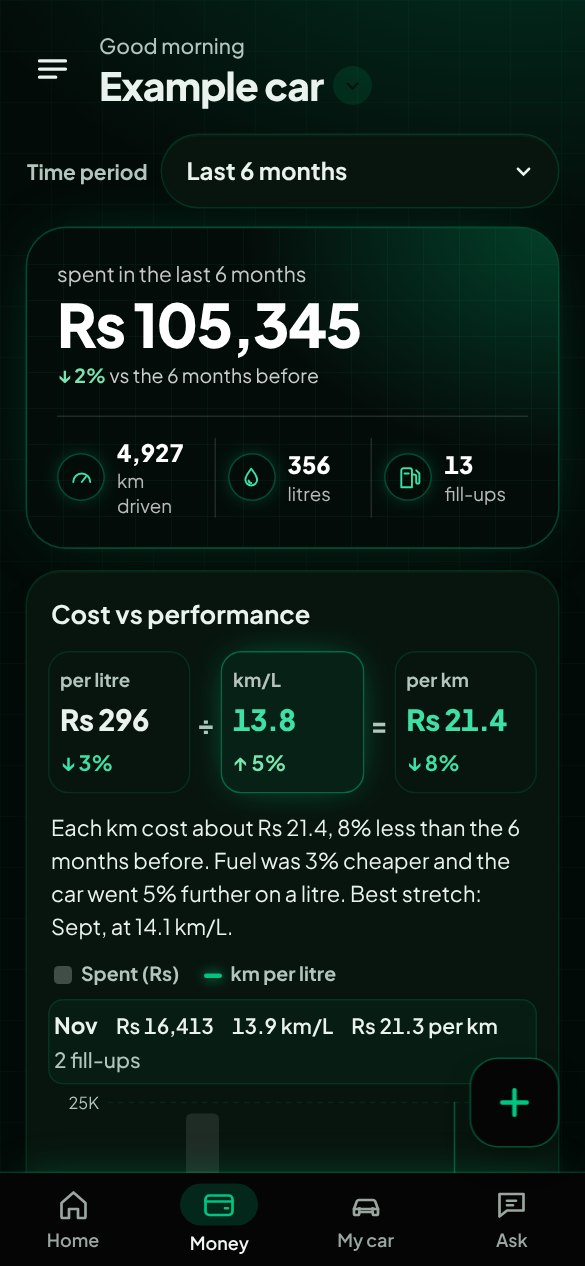
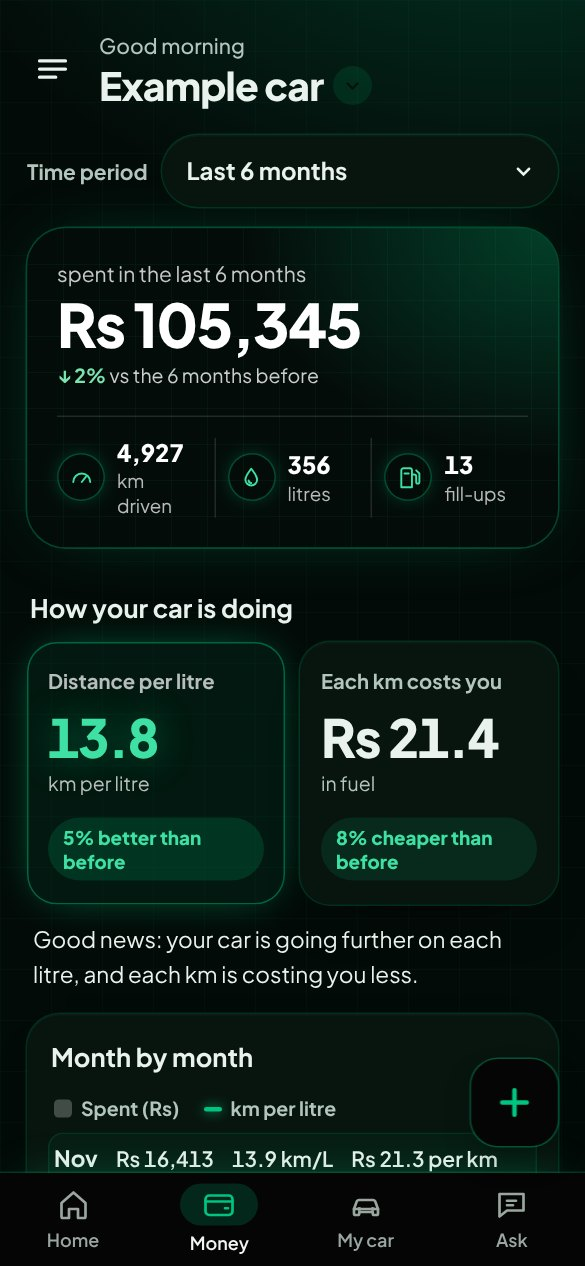
Website in the Glow look; simpler Money page (two numbers, one sentence, one chart)
Claude-Session: https://claude.ai/code/session_01FM4jDjDSFjWPSRL6SLVU9D

Changed region(s): [[0.0308, 0.4621, 0.8923, 0.9242], [0.7692, 0.7393, 0.8615, 0.7701]]

diff --git a/website/index.html b/website/index.html
@@ -3,13 +3,13 @@
 <head>
 <meta charset="utf-8">
 <meta name="viewport" content="width=device-width, initial-scale=1, viewport-fit=cover">
-<meta name="color-scheme" content="light only">
+<meta name="color-scheme" content="dark only">
 <title>MotorPal: your vehicle, sorted</title>
 <meta name="description" content="MotorPal reminds you of every renewal and service, and helps you understand what your vehicle is trying to tell you: warning lights, mechanic talk, and who fixes what. Free, private, made for Sri Lankan drivers.">
 <meta property="og:title" content="MotorPal: your vehicle, sorted">
 <meta property="og:description" content="It reminds you. It also tells you what your car is trying to say. A free, private app made for Sri Lankan drivers.">
 <meta property="og:image" content="img/home.jpg">
-<meta name="theme-color" content="#FFFFFF">
+<meta name="theme-color" content="#030B08">
 <link rel="icon" href="img/motorpal-icon.svg" type="image/svg+xml">
 <link rel="stylesheet" href="https://fonts.googleapis.com/css2?family=Plus+Jakarta+Sans:wght@400;500;600;700;800&display=swap">
 <style>
@@ -286,6 +286,68 @@ body { background: var(--bg); }
 .wf-note { margin-top: 6px; font-size: 11px; color: var(--yellow); font-weight: 700; }
 .final-card { box-shadow: 0 24px 48px -24px rgba(17, 26, 22, .35); }
 @media (max-width: 900px) { .wallet-float { right: 0; top: 6px; width: 200px; padding: 14px 16px; } .wf-big { font-size: 26px; } }
+
+/* ---------- Glow finish (November 2026): same look as the app's Glow ----------
+   Near-black green page with a faint mint grid, dark panels outlined in mint at low strength,
+   icons in outlined glowing circles, mint glows instead of fills. Text #EAF2EE on #08150F is 16:1, muted #A9C4B8 10:1. */
+:root {
+  --bg: #030B08; --soft: #08150F; --ink: #EAF2EE; --mut: #A9C4B8; --line: rgba(0, 196, 127, .16);
+  --green: #00C47F; --green-ink: #3EE0A4; --green-tint: rgba(0, 196, 127, .10); --deep: #040C09;
+  --yellow: #00C47F; --yellow-tint: rgba(0, 196, 127, .12); --on-yellow: #04120C;
+  --red: #FF9B90; --red-tint: rgba(255, 155, 144, .10); --amber: #FFC070; --amber-tint: rgba(255, 192, 112, .10);
+  --edge: rgba(0, 196, 127, .22);
+  --lift: 0 0 0 1px var(--edge), inset 0 1px 0 rgba(255, 255, 255, .03), 0 24px 48px -28px rgba(0, 0, 0, .9);
+  --glow: 0 0 22px -8px rgba(0, 196, 127, .8);
+  color-scheme: dark;
+}
+body {
+  background:
+    radial-gradient(900px 520px at 85% -120px, rgba(0, 196, 127, .20), transparent 70%) no-repeat,
+    linear-gradient(rgba(0, 196, 127, .035) 1px, transparent 1px) 0 0 / 40px 40px,
+    linear-gradient(90deg, rgba(0, 196, 127, .035) 1px, transparent 1px) 0 0 / 40px 40px,
+    var(--bg);
+  color: var(--ink);
+}
+body::before { background: var(--bg); }
+.nav { background: rgba(3, 11, 8, .82); border-bottom: 1px solid var(--edge); }
+.band.soft { background: rgba(0, 196, 127, .025); border-block: 1px solid rgba(0, 196, 127, .10); }
+.dark { background: transparent; }
+.dark .lead, .dark-cols .steps-list span, .legend { color: var(--mut); }
+.step, .pain, .promise, .person, .how, .say, .fx, .lis, .value, .feature .shot, .badge-float, .dl {
+  background: #08150F !important; box-shadow: var(--lift) !important; border: 0 !important; color: var(--ink); }
+.step.last { background: radial-gradient(260px 180px at 100% 0%, rgba(0, 196, 127, .25), transparent 70%), #040C09 !important; box-shadow: 0 0 0 1px rgba(0, 196, 127, .45), var(--glow) !important; }
+.step.last p { color: var(--mut); }
+.feature .shot { background: radial-gradient(320px 240px at 50% 0%, rgba(0, 196, 127, .14), transparent 70%), #08150F !important; }
+/* icons in outlined, softly glowing circles */
+.pain .ic, .promise .ic, .person .ic, .fx .ic, .lis .ic, .value .ic, .points .pi, .badge-float .dot, .step .num {
+  border-radius: 50% !important; background: rgba(0, 196, 127, .06) !important; color: var(--green-ink) !important;
+  box-shadow: inset 0 0 0 1px rgba(0, 196, 127, .35), 0 0 18px -8px rgba(0, 196, 127, .8); }
+.step .num { color: var(--green-ink); }
+.badge-float.one .dot { color: var(--red) !important; box-shadow: inset 0 0 0 1px rgba(255, 155, 144, .4), 0 0 18px -8px rgba(255, 155, 144, .8); }
+.pain .fix { border-top-color: var(--line); }
+.say .a, .covered { background: rgba(0, 196, 127, .07); box-shadow: inset 0 0 0 1px rgba(0, 196, 127, .25); color: var(--green-ink); }
+.chain-note { background: var(--red-tint); color: #FFC9C2; box-shadow: inset 0 0 0 1px rgba(255, 155, 144, .25); }
+.hello span { background: rgba(0, 196, 127, .08); color: var(--green-ink); box-shadow: inset 0 0 0 1px rgba(0, 196, 127, .28); }
+.eyebrow { color: var(--green-ink); }
+.hero h1 em, .how .n { color: var(--green); text-shadow: 0 0 30px rgba(0, 196, 127, .35); }
+.btn.primary, .btn.yellow { background: var(--green); color: #04120C; box-shadow: var(--glow); }
+.btn.primary:hover { background: #3EE0A4; }
+.btn.ghost { background: transparent; color: var(--ink); box-shadow: inset 0 0 0 1px rgba(0, 196, 127, .4); }
+.btn.ghost:hover { box-shadow: inset 0 0 0 1px var(--green), var(--glow); }
+.links a { color: var(--mut); } .links a:hover, footer a:hover { color: var(--ink); }
+.logo { color: var(--ink); } .logo .pal { color: var(--green); }
+.phone { background: #000; box-shadow: 0 0 0 1px rgba(0, 196, 127, .30), 0 30px 70px -24px rgba(0, 0, 0, .9), 0 0 60px -30px rgba(0, 196, 127, .6); }
+.wallet-float { background: radial-gradient(180px 140px at 100% 0%, rgba(0, 196, 127, .3), transparent 70%), linear-gradient(rgba(0, 196, 127, .06) 1px, transparent 1px) 0 0 / 20px 20px, linear-gradient(90deg, rgba(0, 196, 127, .06) 1px, transparent 1px) 0 0 / 20px 20px, #040C09;
+  box-shadow: 0 0 0 1px rgba(0, 196, 127, .35), 0 20px 40px -18px rgba(0, 0, 0, .8), var(--glow); }
+.faq details { border-color: var(--line); }
+.faq summary::after { background: rgba(0, 196, 127, .06); box-shadow: inset 0 0 0 1px rgba(0, 196, 127, .3); }
+.final-card { background: radial-gradient(420px 300px at 100% 0%, rgba(0, 196, 127, .28), transparent 70%), linear-gradient(rgba(0, 196, 127, .05) 1px, transparent 1px) 0 0 / 28px 28px, linear-gradient(90deg, rgba(0, 196, 127, .05) 1px, transparent 1px) 0 0 / 28px 28px, #040C09;
+  color: var(--ink); box-shadow: 0 0 0 1px rgba(0, 196, 127, .35), 0 0 80px -40px rgba(0, 196, 127, .7); }
+.final-card .btn.primary { background: var(--green); color: #04120C; }
+footer { border-top-color: var(--edge); }
+/* the black car on a near-black page: a mint rim light and a lit road line keep it visible */
+.lane { border-top-color: rgba(0, 196, 127, .25); }
+.car { filter: drop-shadow(0 0 1px rgba(234, 242, 238, .55)) drop-shadow(0 0 14px rgba(0, 196, 127, .35)); }
 </style>
 </head>
 <body>

diff --git a/app.js b/app.js
@@ -1007,41 +1007,40 @@ function eqCell(cls, label, val, pct, goodWhenUp) {
 }
 function viewMoney(v) {
   const rows = fuelRows(v).reverse();
-  const yearAgo = addDaysISO(todayISO(), -365), svcSpent = mine(db.service, v).filter(s => s.date >= yearAgo).reduce((s, x) => s + (x.cost || 0), 0);
   if (!rows.length) return `${header(v)}<div class="empty"><b>${esc(t('noFuelTitle'))}</b>${esc(t('noFuelText'))}</div><div class="actions"><button class="btn wide" data-act="addFuel">${esc(t('addFuelTitle'))}</button></div>`;
   const d = periodData(v, period), c = d.cur, p = d.prev, nudge = fuelNudge(v);
-  const pp = pctOf(c.price, p.price), kp = pctOf(c.kpl, p.kpl), cp = pctOf(c.ckm, p.ckm);
-  // Plain-words reading of the numbers: what moved the cost of each km.
-  let insight = c.ckm ? t('insCkm', n1(c.ckm)) : t('insNoKpl');
-  if (cp != null && pp != null && kp != null) insight = t('insCkmChg', n1(c.ckm), Math.abs(Math.round(cp)), cp < 0, Math.abs(cp) < 1, t('prev_' + period)) + ' ' + t('insWhy', Math.abs(Math.round(pp)), pp > 0, Math.abs(pp) < 1, Math.abs(Math.round(kp)), kp > 0, Math.abs(kp) < 1);
-  const best = d.bs.filter(x => x.kpl).sort((x, y) => y.kpl - x.kpl)[0];
-  if (best && d.bs.filter(x => x.kpl).length > 2) insight += ' ' + t('insBest', best.label, n1(best.kpl));
+  const kp = pctOf(c.kpl, p.kpl), cp = pctOf(c.ckm, p.ckm);
+  // Two numbers that matter, each with one plain-words change, and one sentence that sums them up.
+  const chg = (pct, goodUp, upK, downK) => pct == null ? '' : Math.abs(pct) < 2 ? `<span class="duo-c same">${esc(t('chgSame'))}</span>`
+    : `<span class="duo-c ${(pct > 0) === goodUp ? 'good' : 'bad'}">${esc(t(pct > 0 ? upK : downK, Math.abs(Math.round(pct))))}</span>`;
+  const dir = pct => pct == null ? null : Math.abs(pct) < 2 ? 0 : Math.sign(pct);
+  const say = kp == null || cp == null ? t(c.kpl ? 'sayNoPrev' : 'insNoKpl') : t('saySum', dir(kp), dir(cp));
   return `${header(v)}
   ${nudge ? nudgeCard(nudge) : ''}
   <div class="period"><label for="periodSel">${esc(t('periodLabel'))}</label><select id="periodSel" class="pill-select">${PERIODS.map(k => `<option value="${k}" ${k === period ? 'selected' : ''}>${esc(t('pl_' + k))}</option>`).join('')}</select></div>
   ${period === 'C' ? `<div class="two range"><div><label for="cFrom">${esc(t('fromDate'))}</label><input type="date" id="cFrom" value="${cFrom}" max="${cTo}"></div><div><label for="cTo">${esc(t('toDate'))}</label><input type="date" id="cTo" value="${cTo}" min="${cFrom}" max="${todayISO()}"></div></div>` : ''}
   <section class="hero-num"><p class="l">${esc(t('spentIn', t('per_' + period, fmtD(cFrom), fmtD(cTo))))}</p><p class="n">${esc(t('rs', n0(c.spent)))}</p>${delta(c.spent, p.spent, false, period)}
     <div class="hero-sub"><span><i class="hs-ic">${svg(ICONS.gauge)}</i><span><b>${n0(c.km)}</b>${esc(t('kmDriven'))}</span></span><span><i class="hs-ic">${svg(ICONS.drop)}</i><span><b>${n0(c.litres)}</b>${esc(t('litresWord'))}</span></span><span><i class="hs-ic">${svg(ICONS.fuel)}</i><span><b>${c.fills}</b>${esc(t('colFills').toLowerCase())}</span></span></div></section>
+  <h2>${esc(t('howDoing'))}</h2>
+  <div class="duo">
+    <div class="duo-t key"><span class="l">${esc(t('kplTileL'))}</span><span class="n">${c.kpl ? n1(c.kpl) : '–'}</span><span class="u">${esc(t('kplTileU'))}</span>${chg(kp, true, 'chgBetter', 'chgLower')}</div>
+    <div class="duo-t"><span class="l">${esc(t('ckmTileL'))}</span><span class="n">${c.ckm ? esc(t('rs', n1(c.ckm))) : '–'}</span><span class="u">${esc(t('ckmTileU'))}</span>${chg(cp, false, 'chgDearer', 'chgCheaper')}</div>
+  </div>
+  <p class="say">${esc(say)}</p>
   <section class="anal">
-    <h2>${esc(t('costVsPerf'))}</h2>
-    <div class="eq">
-      ${eqCell('', t('perLitre'), c.price ? esc(t('rs', n0(c.price))) : '–', pp, false)}<span class="eq-op">÷</span>
-      ${eqCell('key', t('kplUnit'), c.kpl ? n1(c.kpl) : '–', kp, true)}<span class="eq-op">=</span>
-      ${eqCell('res', t('rsPerKm'), c.ckm ? esc(t('rs', n1(c.ckm))) : '–', cp, false)}
-    </div>
-    <p class="insight">${esc(insight)}</p>
+    <h2>${esc(t('monthByMonth'))}</h2>
     <div class="legend"><span><i class="sw bar"></i>${esc(t('legSpent'))}</span><span><i class="sw ln"></i>${esc(t('legKpl'))}</span></div>
     <div class="readout" id="readout" aria-live="polite"></div>
     <div class="chart" id="ch-combo"></div>
-    <details class="tbl"><summary>${esc(t('seeNumbers'))}</summary><div class="tbl-wrap"><table><thead><tr><th>${esc(t('colPeriod'))}</th><th>${esc(t('colSpent'))}</th><th>${esc(t('kplUnit'))}</th><th>${esc(t('colCkm'))}</th><th>${esc(t('colPrice'))}</th></tr></thead>
+    <details class="tbl"><summary>${esc(t('howWorked'))}</summary>
+      <p class="hint">${esc(t('kplHow'))} ${esc(t('ckmHow', c.price ? n0(c.price) : '–'))} ${esc(t('fillAssumption'))}</p>
+      <div class="tbl-wrap"><table><thead><tr><th>${esc(t('colPeriod'))}</th><th>${esc(t('colSpent'))}</th><th>${esc(t('kplUnit'))}</th><th>${esc(t('colCkm'))}</th><th>${esc(t('colPrice'))}</th></tr></thead>
       <tbody>${d.bs.slice().reverse().map(b => `<tr><td>${esc(b.label)}</td><td>${b.fills ? esc(t('rs', n0(b.spent))) : '–'}</td><td>${b.kpl ? n1(b.kpl) : '–'}</td><td>${b.ckm ? n1(b.ckm) : '–'}</td><td>${b.price ? n0(b.price) : '–'}</td></tr>`).join('')}</tbody></table></div></details>
-    <p class="hint kpl-how">${esc(t('kplHow'))}</p>
   </section>
   ${perfCard(v)}
-  <div class="stats one"><div class="stat"><span class="n">${esc(t('rs', n0(svcSpent)))}</span><span class="l">${esc(t('svcSpent12'))}</span></div></div>
   <div class="sec-h"><h2>${esc(t('recentFills'))}</h2>${rows.length > 5 ? `<button class="link-btn" data-act="allFills">${esc(t('seeAllFills', rows.length))}</button>` : ''}</div>
   <ul class="list">${rows.slice(0, 5).map(fillRow).join('')}</ul>
-  <p class="hint">${esc(t('fillAssumption'))} ${esc(t('stationNote'))}</p>`;
+  <p class="hint">${esc(t('stationNote'))}</p>`;
 }
 
 // ---------- charts (hand-drawn SVG, works offline) ----------

diff --git a/styles.css b/styles.css
@@ -890,3 +890,24 @@ body { background: var(--bg); color: var(--fg); }
 :root[data-bg="glow"] .sw.bar { background: #EAF2EE; opacity: .25; }
 :root[data-bg="glow"] #dlg { box-shadow: 0 -1px 0 rgba(0, 196, 127, .35), 0 -20px 50px -20px rgba(0, 196, 127, .35); }
 :root[data-bg="glow"] #dlg input[type=file] { background: rgba(0, 196, 127, .05); border-color: rgba(0, 196, 127, .30); color: var(--mut); }
+
+/* ---------- Money, simpler (November 2026): two numbers that matter, one sentence ---------- */
+.duo { display: grid; grid-template-columns: 1fr 1fr; gap: 10px; }
+.duo-t { display: flex; flex-direction: column; gap: 2px; min-width: 0; padding: 16px 14px; border-radius: 20px; background: var(--surface); box-shadow: var(--lift); }
+.duo-t .l { font-size: 13.5px; font-weight: 700; color: var(--mut); }
+.duo-t .n { font-size: clamp(28px, 9vw, 36px); font-weight: 800; letter-spacing: -0.03em; line-height: 1.15; margin-top: 4px; font-variant-numeric: tabular-nums; overflow-wrap: anywhere; }
+.duo-t .u { font-size: 13px; color: var(--mut); }
+.duo-c { align-self: flex-start; margin-top: 10px; padding: 5px 10px; border-radius: 999px; font-size: 12.5px; font-weight: 800; line-height: 1.3; }
+.duo-c.good { background: var(--green-tint); color: var(--green-ink); }
+.duo-c.bad { background: var(--amber-tint); color: var(--amber-text); }
+.duo-c.same { background: var(--surface-2); color: var(--mut); }
+.duo-t.key { background: #050505; color: #fff; }
+.duo-t.key .n { color: #00C47F; }
+.duo-t.key .l, .duo-t.key .u { color: rgba(255, 255, 255, .72); }
+.duo-t.key .duo-c.good { background: rgba(0, 196, 127, .16); color: #3EE0A4; }
+.duo-t.key .duo-c.bad { background: rgba(255, 192, 112, .16); color: #FFC070; }
+.duo-t.key .duo-c.same { background: rgba(255, 255, 255, .10); color: rgba(255, 255, 255, .8); }
+.say { margin: 12px 4px 0; font-size: 15px; line-height: 1.5; }
+.tbl .hint { margin: 4px 0 10px; }
+:root[data-bg="glow"] .duo-t.key { background: rgba(0, 196, 127, .07); box-shadow: inset 0 0 0 1px rgba(0, 196, 127, .45), 0 0 30px -12px rgba(0, 196, 127, .8); }
+:root[data-bg="glow"] .duo-t.key .n { color: #3EE0A4; text-shadow: 0 0 24px rgba(0, 196, 127, .45); }

diff --git a/strings.js b/strings.js
@@ -1087,6 +1087,21 @@ const STRINGS = {
     litreUnit: 'L',
     litresIn: n => `litres over ${n} ${n === 1 ? 'fill-up' : 'fill-ups'}`,
     noPrevious: 'Nothing to compare with yet',
+    howDoing: "How your car is doing",
+    kplTileL: "Distance per litre",
+    kplTileU: "km per litre",
+    ckmTileL: "Each km costs you",
+    ckmTileU: "in fuel",
+    chgSame: "Same as before",
+    monthByMonth: "Month by month",
+    howWorked: "How this is worked out",
+    sayNoPrev: "Keep adding fill-ups and MotorPal will compare this with earlier months.",
+    chgBetter: p => `${p}% better than before`,
+    chgLower: p => `${p}% lower than before`,
+    chgCheaper: p => `${p}% cheaper than before`,
+    chgDearer: p => `${p}% more than before`,
+    ckmHow: p => `Cost per km = price per litre (about Rs ${p} in this period) ÷ km per litre.`,
+    saySum: (k, c) => (k > 0 ? "Good news: your car is going further on each litre" : k < 0 ? "Your car is going a little less far on each litre" : "Your car is going about as far on each litre as before") + (c < 0 ? ", and each km is costing you less." : c > 0 ? ", and each km is costing you more." : ", and each km costs about the same."),
     perfTitleLast: "Since the last service",
     bgTitle: "Background",
     bg_glow: "Glow",

diff --git a/sw.js b/sw.js
@@ -2,7 +2,7 @@
 /* CarBook offline support.
    Keeps a copy of the app's files on the phone so it opens without internet.
    When you change any app file, bump VERSION so phones fetch the new copy. */
-const VERSION = 'carbook-v41';
+const VERSION = 'carbook-v42';
 const FILES = ['./', 'index.html', 'styles.css', 'strings.js', 'catalogue.js', 'app.js', 'manifest.webmanifest', 'icon.svg', 'privacy.html', 'icon-192.png', 'icon-512.png', 'icon-maskable-512.png'];
 const FONT_CACHE = 'carbook-fonts';
 

diff --git a/CLAUDE.md b/CLAUDE.md
@@ -10,7 +10,7 @@ Open a terminal in this folder and run `python3 -m http.server 8080`, then visit
 - `styles.css`: all styling (design tokens at the top)
 - `strings.js`: every word the app shows, in English, Sinhala and Tamil. Missing translations fall back to English
 - `app.js`: data, rules, forms and views. Text comes from `strings.js` through `t('key')`, never typed straight into the code
-- `website/`: the public website, now branded MotorPal with the Four pillars logo (one page, `website/index.html`, with app screenshots in `website/img/`). Same friendly fintech look as the app (Plus Jakarta Sans, black and mint from the MotorPal logo, soft grey with white cards, a black wallet card). A sleek glossy black car (chrome trim, alloy wheels, headlight beam, a thin mint side line) drives across under the menu bar; the owner found the earlier flat cartoon car too game-like. The owner tried a formal airline-style version and preferred this one. It links to the app with `../`. The app's offline helper ignores this folder. When the app's look changes, retake the screenshots
+- `website/`: the public website, now branded MotorPal with the Four pillars logo (one page, `website/index.html`, with app screenshots in `website/img/`). Same Glow look as the app (November 2026): near-black green page with a faint mint grid, dark panels outlined in mint, icons in glowing outlined circles, mint buttons with a glow (the "Glow finish" block at the end of its styles; the black car has a mint rim light so it shows on the dark page). Plus Jakarta Sans. A sleek glossy black car (chrome trim, alloy wheels, headlight beam, a thin mint side line) drives across under the menu bar; the owner found the earlier flat cartoon car too game-like. The owner tried a formal airline-style version and preferred this one. It links to the app with `../`. The app's offline helper ignores this folder. When the app's look changes, retake the screenshots
 - `sw.js`, `manifest.webmanifest`, `icon.svg`, `icon-*.png`: make it installable and work offline. After changing any app file, bump `VERSION` in `sw.js` so phones pick up the new copy. A new file must also be added to `FILES` there
 
 ## Where work goes (file every new piece of work here, without being asked)
@@ -24,7 +24,7 @@ Open a terminal in this folder and run `python3 -m http.server 8080`, then visit
 - **Parts catalogue (November 2026):** about 230 parts from the owner's maintenance checklist research (`research/maintenance-checklist/`), built into `catalogue.js` and `strings.js` (`cat_<id>_name`, `_check`, `_typical`) by `development/tools/build-catalogue.py`. On the Health tab owners type to search or browse by group, then add a part: they see how often to check it and its typical replacement, get a suggested reminder (the shorter end of the typical range, editable), can enter when it was last done, and can set their own reminder date. Condition-based parts have no suggested interval, only the owner's date. Picks are stored in `db.tracked` (`comp` is `c:<id>` or a built-in part); service records for catalogue parts use kind `c:<id>`. Any part, built-in or not, can have a reminder date.
 - **Your records:** one place for warranties, service records and part changes (`warrantyList`, `serviceList`, `PART_CHANGES`).
 - **Phase 1 (now):** deadlines and renewals, maintenance status with plain explanations, a year-ahead plan with estimated service dates, fuel and spending trends (1 month to 5 years, compared with the period before), service and fuel records, and Ask (a chat about the owner's records, plus questions for the mechanic).
-- **Fuel (November 2026):** a fill-up records amount spent, litres and the odometer; distance is the odometer gap since the previous fill-up, and km per litre is that distance divided by litres (`fuelRows`, `fuelStats`). Money opens with a period dropdown (last month, 6 months, year, 2 or 5 years, or the owner's own dates, `cFrom`/`cTo`) and reads like an analysis page: the wallet card (spent, km, litres, fill-ups), then a Cost vs performance card with the cost equation (price per litre ÷ km per litre = cost per km, each with its change on the period before), a plain-words reading of what moved the cost and the best stretch, one chart (spend as bars, km per litre as a smooth black line on its own axis; the owner asked for a single chart, not two) and a table. Only the last five fill-ups are listed; See all opens the rest (`allFills`). "Since a service" (`perfSince`, `perfCard`) lists only work that can change fuel use (`PERF_KINDS`, plus catalogue parts in `PERF_CAT` such as fuel filters, injectors, throttle body, ignition coils, tyre pressure; never wiper blades and the like), opens on the most recent one as "Since the last service", and compares km/L over up to 5 fill-ups before a service with up to 6 whose whole stretch of driving came after it (at least 2 on each side), and always says traffic and driving also play a part; a clear drop suggests mentioning it to the mechanic, never a diagnosis. Home offers this itself ("How is your car doing since its engine tune-up?", `perfPrompt`) for a recent tune-up, spark plugs, air filter, oil change, tyres or alignment, once per garage visit (`v.perfSeen`). "Forgot a fill-up?" (`fuelNudge`) shows on Home and Money when the days or km since the last fill-up are well over the owner's usual gap; "Not yet" hides it for 4 days (`v.fuelSnooze`). The manifest has a "Log a fill-up" shortcut (long-press the icon, `?add=fuel`). Reminding owners when they are at a petrol station needs location and background notifications, so it waits for the Play Store app (step 7).
+- **Fuel (November 2026):** a fill-up records amount spent, litres and the odometer; distance is the odometer gap since the previous fill-up, and km per litre is that distance divided by litres (`fuelRows`, `fuelStats`). Money opens with a period dropdown (last month, 6 months, year, 2 or 5 years, or the owner's own dates, `cFrom`/`cTo`) and is kept simple (the owner found the analysis version too complicated): the wallet card (spent, km driven, litres, fill-ups), then "How your car is doing" with just two numbers, km per litre and what each km costs, each with one plain change ("5% better than before", "8% cheaper than before") and one summary sentence (`saySum`), then "Month by month" with one chart (spend as bars, km per litre as a smooth black line on its own axis; the owner asked for a single chart, not two) ; price per litre, how it is worked out and a table sit behind "How this is worked out". Only the last five fill-ups are listed; See all opens the rest (`allFills`). "Since a service" (`perfSince`, `perfCard`) lists only work that can change fuel use (`PERF_KINDS`, plus catalogue parts in `PERF_CAT` such as fuel filters, injectors, throttle body, ignition coils, tyre pressure; never wiper blades and the like), opens on the most recent one as "Since the last service", and compares km/L over up to 5 fill-ups before a service with up to 6 whose whole stretch of driving came after it (at least 2 on each side), and always says traffic and driving also play a part; a clear drop suggests mentioning it to the mechanic, never a diagnosis. Home offers this itself ("How is your car doing since its engine tune-up?", `perfPrompt`) for a recent tune-up, spark plugs, air filter, oil change, tyres or alignment, once per garage visit (`v.perfSeen`). "Forgot a fill-up?" (`fuelNudge`) shows on Home and Money when the days or km since the last fill-up are well over the owner's usual gap; "Not yet" hides it for 4 days (`v.fuelSnooze`). The manifest has a "Log a fill-up" shortcut (long-press the icon, `?add=fuel`). Reminding owners when they are at a petrol station needs location and background notifications, so it waits for the Play Store app (step 7).
 - Estimated service dates use the owner's average km per day from the last year of records. Always label them "estimated".
 - Comparisons with an earlier period only show when the records cover all of that period.
 - **Phase 2 (later):** selective sharing, verification levels, garage-confirmed entries, maintenance score, buyer tools.
